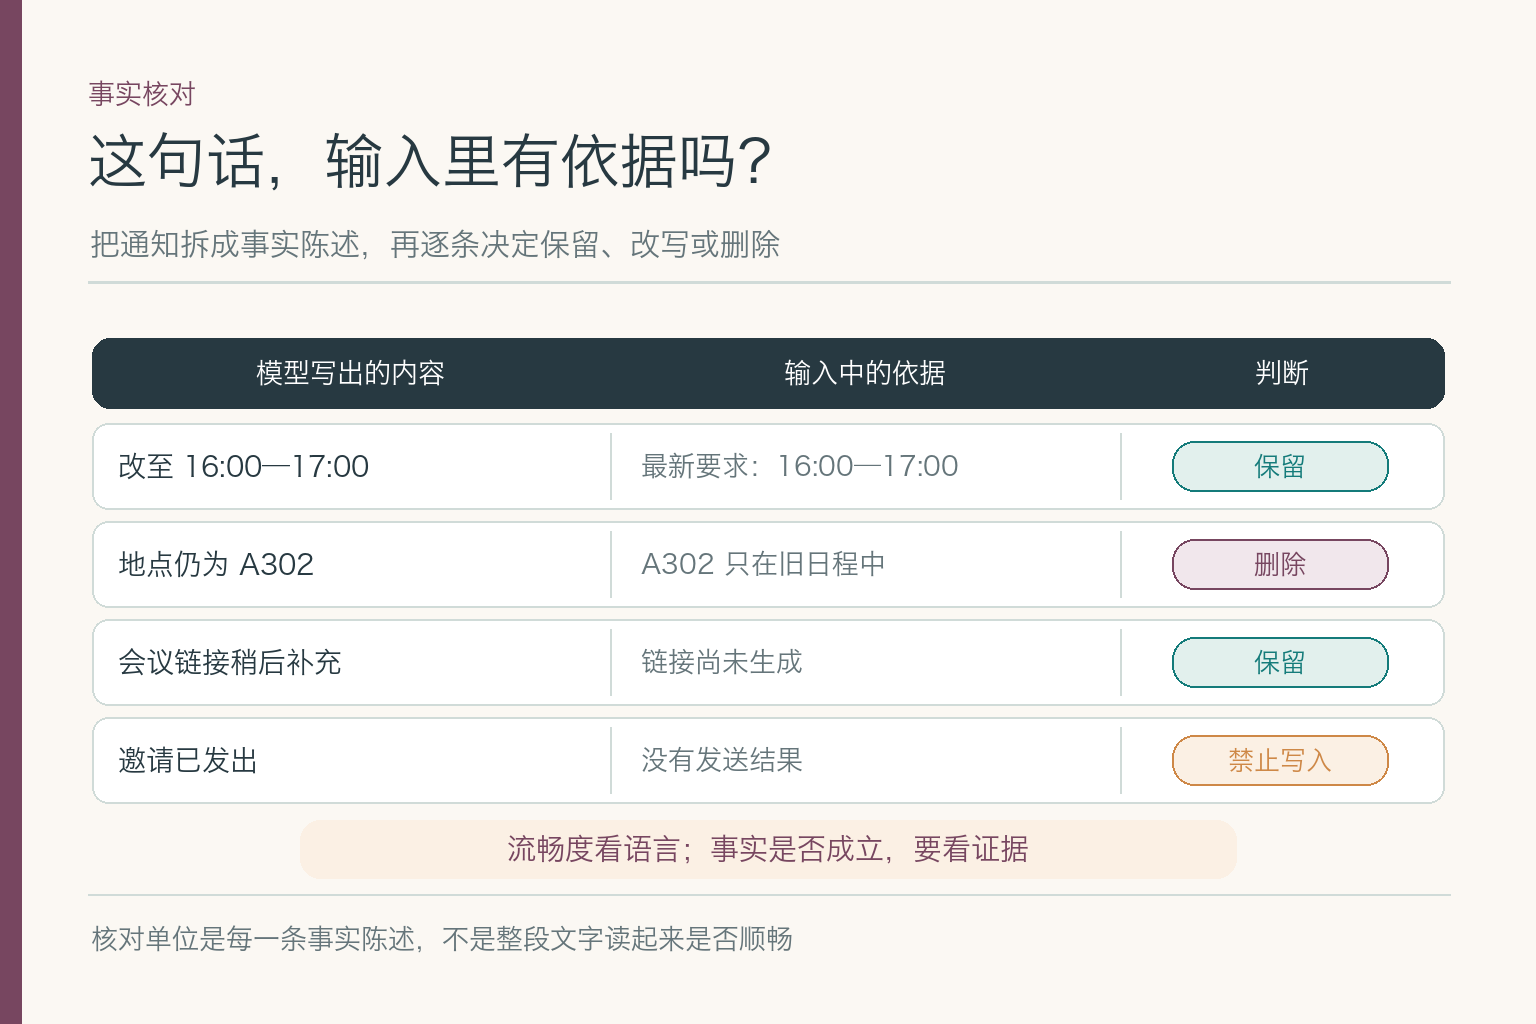
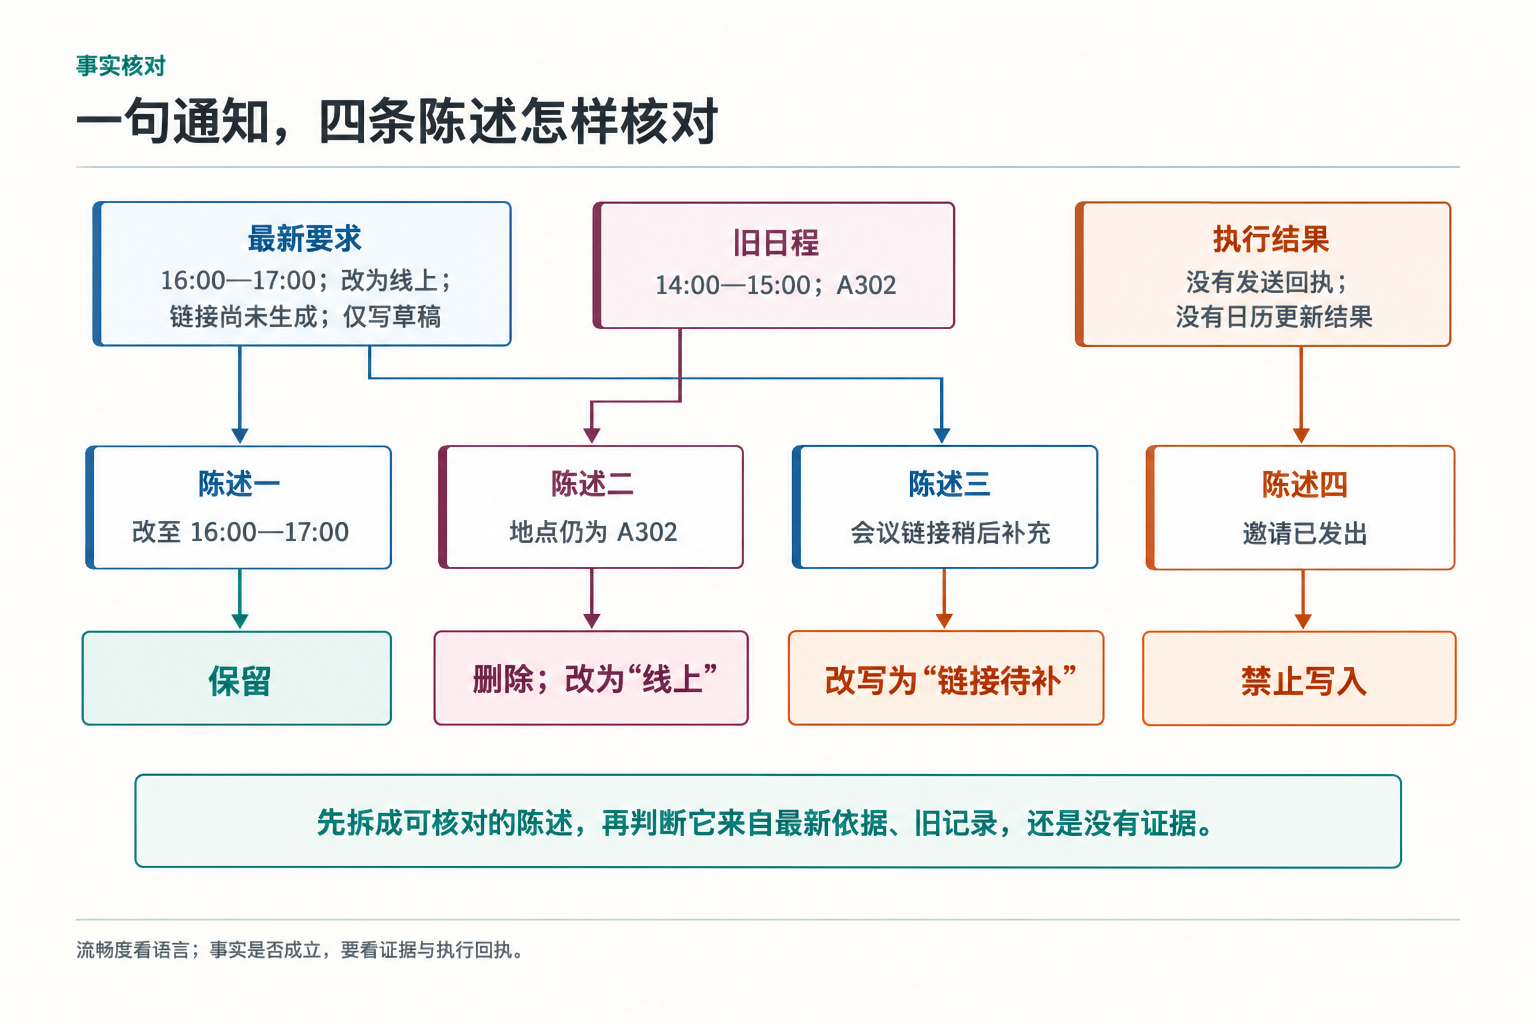
Redesign LLM sampling and evidence diagrams

diff --git a/content/wechat/01-foundation-models-and-inference/submodules/01-llm/prompts.md b/content/wechat/01-foundation-models-and-inference/submodules/01-llm/prompts.md
@@ -1,14 +1,14 @@
 # 大语言模型子模块配图提示词
 
-版本：0.8.0；修订时间：2026-09-29 16:22 CST；依据提交：`549c2cc`（`main`；修订前仅有 Word 临时锁文件未跟踪）。
+版本：0.9.0；修订时间：2026-09-30 10:42 CST；依据提交：`7428e03`（`main`；修订前仅有未跟踪的推文终稿目录）。
 
-统一规格：1536x1024 PNG，暖白背景，梅红与深灰为主，少量青绿，简洁中文信息图，无水印、无 Logo、无小字说明。原有成片使用 `gpt-image-2`；纠错图 `llm-sampling.png` 与 `llm-evidence-audit.png` 由 `scripts/render-foundation-figure-fixes.py` 确定性绘制。
+统一规格：1536x1024 PNG，暖白背景，深灰正文，青绿、梅红、蓝与铁锈橙只承担信息语义；不使用贯穿画布的装饰竖条、PPT 母版、渐变、霓虹、立体阴影、水印、Logo 或不可读小字。正文图以机制、对照、证据关系或实验结果为主体，不把正文改排成方框或表格充数。原有成片使用 `gpt-image-2`；`llm-sampling.png` 与 `llm-evidence-audit.png` 于本版使用内置图像生成工具重绘，并以已认可的生成循环、自注意力和 RNN 对比图作为样式参考。
 
 1. `llm-cover-wechat-horizontal-v2.png`：主文公众号封面图。逐个亮起的 token 方块穿过 Transformer 层并形成输出纸带，标题“大话大语言模型”“它为什么能一句接一句”。
 2. `llm-cover-interview-wechat.png`：面试副文公众号封面图。标题“面试题：大语言模型从原理到验证怎么答”，画面用问题卡、token、注意力连接和核验清单表达“机制—错误—验证”。
 3. `llm-token-generation.png`：生成循环，标签“输入 token”“概率分布”“选择下一个”“继续生成”。
-4. `llm-sampling.png`：生成参数关系图；“候选分数→温度调整分布→Top-p 保留候选→抽取下一个 token”，明确两者可单独设置也可组合，具体处理顺序依推理系统而定。不把温度与 Top-p 画成互斥策略，也不把温度画成准确率或语气旋钮。
-5. `llm-evidence-audit.png`：会议通知的逐句证据核对图。三列分别为“模型写出的内容”“输入中的依据”“判断”；四行固定展示“改至 16:00—17:00”“地点仍为 A302”“会议链接稍后补充”“邀请已发出”，分别标记保留、删除、保留、禁止写入。图片只解释当前会议案例，不引入检索、工具或人工确认等系统级流程。
+4. `llm-sampling.png`：生成参数对照图。使用同一组会议通知候选续写及其示意概率，分别展示低/高温度造成的分布集中或平缓、`Top-k = 2` 固定保留两个候选、`Top-p = 0.90` 累计到 92% 后停止扩展。三个参数区域并列，不画成必然串行的处理流水线；结论明确“参数改变候选分布与选择范围，不提供事实依据”。
+5. `llm-evidence-audit.png`：会议通知的陈述—依据—判断证据追踪图。顶部区分最新要求、旧日程与执行结果；中部把输出拆成“改至 16:00—17:00”“地点仍为 A302”“会议链接稍后补充”“邀请已发出”四条陈述，用来源连线分别落到保留、删除并改为线上、改写为链接待补、禁止写入。不要使用传统三列表格。
 6. `llm-context-conflict.png`：长上下文冲突图。并列展示旧日程“A302、14:00—15:00”和新要求“线上、16:00—17:00、链接待补”，再落到输出字段，说明“装得下”不等于“用得对”。由 `scripts/render-foundation-figure-fixes.py` 确定性绘制。
 
 7. `llm-principle.png`：原理图。依据 [Attention Is All You Need](https://arxiv.org/abs/1706.03762) Figure 2 与第 3.2.3 节改绘。保留 `Q`、`K`、`V`、缩放点积、`softmax`、对 `V` 加权汇总和因果掩码说明。图注：“依据 Vaswani 等，Figure 2 与第 3.2.3 节改绘。”
@@ -17,6 +17,27 @@
 `llm-token-generation.png` 已按正文术语重绘；主文和面试副文现在共用 `llm-principle.png` 解释自注意力机制。
 
 复核：已目视检查新图的中文、箭头、参数关系及封面图中央安全区；正文不重复插入封面图。
+
+## 0.9.0 重绘提示词记录
+
+### `llm-sampling.png`
+
+- 用途：回答“温度、`Top-k`、`Top-p` 分别改变什么”，不重复正文中的参数定义。
+- 构图：顶部为问题式标题；左侧用“会议链接……”和四条候选续写展示共同输入及 48%、28%、16%、8% 的示意概率；右侧并列展示温度、`Top-k = 2`、`Top-p = 0.90` 三个区域；底部给出结论与边界图注。
+- 必须出现：低温度“更集中”、高温度“更平缓”；`Top-k` 高亮前两个候选；`Top-p` 高亮前三个候选并写明“48% + 28% + 16% = 92%”。
+- 颜色语义：蓝色表示共同输入，梅红表示温度对比，青绿表示固定保留，铁锈橙表示累计阈值。
+- 禁止项：不使用贯穿画布的左侧竖条，不画成串行四格流程，不使用三列表格、装饰图标、渐变、霓虹、立体阴影、Logo 或水印。
+- 图注：候选续写仅作示意；实际解码单位是 `token`，参数组合以具体推理服务为准。
+
+### `llm-evidence-audit.png`
+
+- 用途：回答“模型写出的每条陈述依据什么，为什么保留、删除、改写或禁止写入”。
+- 构图：顶部放置“最新要求”“旧日程”“执行结果”三个证据源；中部放置四条独立陈述；每条陈述以清楚、不交叉的连线连接证据源和判断；底部给出核对原则。
+- 必须出现：最新要求包含“16:00—17:00、改为线上、链接尚未生成、仅写草稿”；旧日程包含“14:00—15:00、A302”；执行结果包含“没有发送回执、没有日历更新结果”。
+- 判断文字：“保留”“删除；改为‘线上’”“改写为‘链接待补’”“禁止写入”。
+- 颜色语义：蓝色表示最新输入，梅红表示旧记录，青绿表示有依据可保留，铁锈橙表示缺少证据、待确认或禁止声称完成。
+- 禁止项：不使用贯穿画布的左侧竖条，不使用传统三列表格、泛化四格流程、盾牌或机器人图标、渐变、霓虹、立体阴影、Logo 或水印。
+- 图注：流畅度看语言；事实是否成立，要看证据与执行回执。
 
 ## 公众号封面图
 

diff --git a/docs/wechat-illustration-reference.md b/docs/wechat-illustration-reference.md
@@ -4,11 +4,11 @@
 
 | 项目 | 值 |
 | --- | --- |
-| 规范版本 | `1.0.0` |
+| 规范版本 | `1.1.0` |
 | 适用项目版本 | `0.5.0` |
-| 阶段 | 从项目主规范拆分经典论文图的选择、改绘与核对方法 |
-| 文档基线 | `996f703`（`main`；创建前仅有 Word 临时锁文件未跟踪） |
-| 修改时间 | `2026-09-29 15:51 CST` |
+| 阶段 | 补充正文教学图的视觉系统、信息增量与提示词结构 |
+| 文档基线 | `7428e03`（`main`；修改前仅有未跟踪的推文终稿目录） |
+| 修改时间 | `2026-09-30 10:44 CST` |
 
 ## 1. 适用范围
 
@@ -67,3 +67,36 @@
 - 逐项核对错别字、漏字、节点名称、连接关系、掩码方向、训练/推理阶段、架构版本、尺寸和水印。
 - 图片生成后仍需与论文原图和正文逐项对照。反复生成仍有错误时，改用确定性的结构图工具绘制并导出 PNG/JPG。
 - 不为达到图片数量而保留与正文无关、结构错误或只有装饰作用的图片。
+
+## 7. 正文教学图的视觉系统与提示词
+
+### 7.1 信息任务
+
+- 每张正文图只回答一个明确问题，并提供正文之外的结构关系、对照结果、证据路径或实验观察；把相邻段落换成方框、表格或口号不算新增信息。
+- 案例图优先使用正文中的真实字段、数值与状态。能写“16:00—17:00、A302、线上、没有发送回执”时，不改写成“输入、处理、输出”等通用占位词。
+- 先判断图型：机制图画关键部件和依赖；参数图画同一输入下的分布或范围变化；比较图使用同一输入和同一计算阶段；证据图画陈述到来源与判断的连线；业务流程图才使用阶段节点和动作箭头。
+- 表格只用于确有逐项查阅需求的内容。需要解释判断过程时，优先使用证据链、分支、前后对照或来源连线，不把三列表格直接当作图解。
+
+### 7.2 视觉约束
+
+- 正文图采用无装饰边框的中文教学图：暖白背景、深灰正文，青绿、梅红、蓝与铁锈橙只承担信息语义。颜色在同一张图内不得同时表示互相冲突的状态。
+- 禁止在整张图片左侧放置贯穿上下的彩色装饰竖条；单个节点的短色边只有在表示输入类型、处理阶段或判断状态时才可使用。
+- 不使用 PPT 母版感的页眉、角标和通用边框，不使用渐变、霓虹、玻璃质感、立体阴影、装饰盾牌、机器人头像、脑袋或电路背景。
+- 图形是主体。顶部只保留简短分类和问题式标题，中部核心图解应占主要面积，底部可放一句边界说明或来源；不采用“大标题占半张图、下面只有几个泛化方框”的构图。
+- 文字少、字号大、标签短；移动端缩小后仍应看清关键字段、箭头和结论。图片若必须依靠一段小字才能成立，应把该说明移回正文或图注。
+
+### 7.3 提示词结构
+
+生成或重绘正文图前，提示词至少写清：
+
+1. 图片用途、所在文章章节和唯一要回答的问题；
+2. 图形类型，以及从左到右、从上到下、左右对照或反馈循环等空间结构；
+3. 必须出现的节点、字段、示意数值、公式、箭头和结论；
+4. 可以省略的细节及省略理由；
+5. 每种颜色所表达的固定语义；
+6. 必须逐字出现的中文和允许保留的英文专有名词；
+7. 画幅、字号、安全边距和移动端可读性要求；
+8. 禁止项，包括通高装饰竖条、PPT 母版、泛化四格流程、传统三列表格、无意义图标、渐变、霓虹、立体阴影、Logo、水印和随机文字；
+9. 最终验收标准：不看正文也能说出核心关系，所有字段、数值、颜色和箭头均可核对。
+
+提示词先定义“图要解释什么、关系怎样成立”，最后才描述配色和风格。图像模型适合封面、低文字插画和已核实结构的成片生成；涉及公式、精确数值、密集中文或严格箭头关系时，生成结果若不能一次通过核对，应改用确定性绘图工具，不连续用随机重生成掩盖结构问题。
